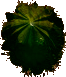
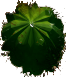
better ground and textures

diff --git a/js/game.js b/js/game.js
@@ -120,8 +120,9 @@ function preload () {
     game.load.spritesheet('bullets', 'assets/bullets.png',54,17,3);
     game.load.image('vape', 'assets/vape.png');
     game.load.image('spike', 'assets/spike.png')
+    game.load.image('sand-decor', 'assets/sand_decor.png')
     game.load.image('button-circle', 'assets/button_circle.png');
-    game.load.image('earth', 'assets/scorched_earth.png');
+    game.load.image('earth', 'assets/desert.png');
     game.load.spritesheet('kaboom', 'assets/explosion.png', 64, 64, 23);
     game.load.spritesheet('vapelosion', 'assets/vapelosion.png', 128, 128, 23);
     game.load.spritesheet('yellow-jolt', 'assets/YellowJolt.png', 64, 64, 4);
@@ -193,6 +194,18 @@ function create ()
     
     //  Our tiled scrolling background
     land = game.add.tileSprite(0, 0, gameWidth, gameHeight, 'earth');
+
+     decors = game.add.group();
+ 
+     for (var i = 0; i < 16; i++)
+     {
+         var x = decors.create(mapWidth * Math.random(), 
+                               mapHeight * Math.random(), 
+                               'sand-decor');
+         var sc = 10 * Math.random()
+         x.scale.set(sc, sc)
+     }
+
 
     land.fixedToCamera = true;
     
